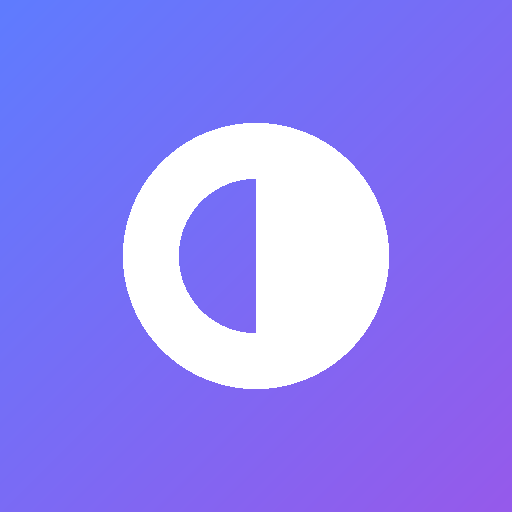
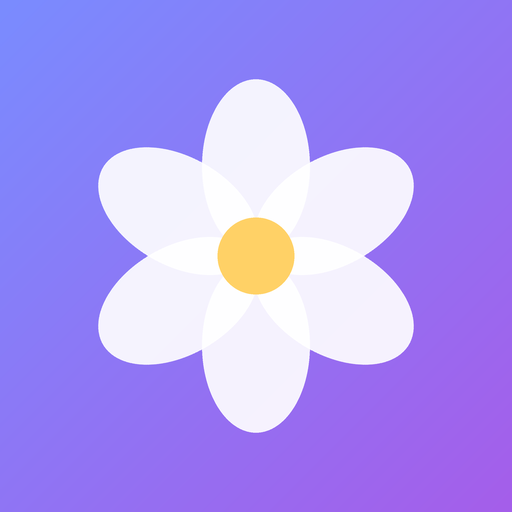
Add files via upload

diff --git a/js/app.js b/js/app.js
@@ -46,8 +46,8 @@ function sample() {
   ];
 }
 function load() {
-  try { const x = JSON.parse(localStorage.getItem(KEY)); if (x && x.tasks) { x.settings = Object.assign({ theme: 'system', accent: '#5f7cff', h24: false, mon: true }, x.settings); x.focus = x.focus || {}; x.fired = x.fired || {}; return x; } } catch (e) {}
-  return { tasks: sample(), settings: { theme: 'system', accent: '#5f7cff', h24: false, mon: true }, focus: {}, fired: {} };
+  try { const x = JSON.parse(localStorage.getItem(KEY)); if (x && x.tasks) { x.settings = Object.assign({ theme: 'system', accent: '#5f7cff', h24: false, mon: true }, x.settings); x.focus = x.focus || {}; x.fired = x.fired || {}; x.templates = x.templates || []; return x; } } catch (e) {}
+  return { tasks: sample(), settings: { theme: 'system', accent: '#5f7cff', h24: false, mon: true }, templates: [], focus: {}, fired: {} };
 }
 let S = load();
 let nativeT;
@@ -144,6 +144,7 @@ function renderDrawer() {
       <div class="set-row"><span>Accent</span><div class="swatches">${COLORS.map(c => `<button class="swatch ${s.accent === c ? 'on' : ''}" style="background:${c}" data-act="accent" data-c="${c}" aria-label="Accent ${c}"></button>`).join('')}</div></div>
       <label class="set-row"><span>24-hour clock</span><input type="checkbox" data-set="h24" ${s.h24 ? 'checked' : ''}></label>
       <label class="set-row"><span>Week starts Monday</span><input type="checkbox" data-set="mon" ${s.mon ? 'checked' : ''}></label>
+      <p class="hint">Last backup: ${s.lastBackup || S.lastBackup ? esc(longDate(S.lastBackup)) : 'never — tap Export to save one'}</p>
       <div class="btn-row">
         <button data-act="notif">🔔 Notifications</button>
         ${LN() ? '' : '<button data-act="install">📲 Install app</button>'}
@@ -187,12 +188,14 @@ function renderStrip() {
 
 function blockHTML(i, lane, lanes, n) {
   const t = i.t, start = toMin(t.time), dur = t.dur || 30;
-  const subs = t.subtasks.length ? ` · ${t.subtasks.filter(s => s.done).length}/${t.subtasks.length}` : '';
+  const sn = t.subtasks.length, sd = t.subtasks.filter(s => s.done).length;
+  const subs = sn ? ` · ☑ ${sd}/${sn}` : '';
+  const note = t.notes && t.notes.trim() ? ' · 📝' : '';
   const w = 100 / lanes;
   const hpx = Math.max(dur * PPM, 34) - 2;
   return `<div class="blk ${i.done ? 'done' : ''} ${hpx < 56 ? 'short' : ''}" data-id="${t.id}" style="--i:${n};--c:${t.color};top:${start * PPM}px;height:${hpx}px;left:calc(${lane * w}% + 6px);width:calc(${w}% - 12px)">
     <button class="chk ${i.done ? 'done' : ''}" data-act="toggle" data-id="${t.id}" data-day="${i.day}" aria-label="Complete"></button>
-    <div class="bt"><b>${esc(t.icon)} ${esc(t.title)}</b><small>${fmt(t.time)} – ${fmt(fromMin(start + dur))} · ${fmtDur(dur)}${subs}${t.repeat !== 'none' ? ' · 🔁' : ''}</small></div>
+    <div class="bt"><b>${esc(t.icon)} ${esc(t.title)}</b><small>${fmt(t.time)} – ${fmt(fromMin(start + dur))} · ${fmtDur(dur)}${subs}${note}${t.repeat !== 'none' ? ' · 🔁' : ''}</small>${sn ? `<i class="sp" style="--v:${sd / sn * 100}%"></i>` : ''}</div>
     <div class="grip" aria-label="Drag to move">⠿</div><div class="rs"></div></div>`;
 }
 function layout(timed) {
@@ -216,7 +219,7 @@ function renderDay() {
     h += `<div class="tray"><h4>Anytime</h4>${untimed.map((i, k) => `
       <div class="row ${i.done ? 'done' : ''}" style="--i:${k};--c:${i.t.color}" data-act="edit" data-id="${i.t.id}">
         <button class="chk ${i.done ? 'done' : ''}" data-act="toggle" data-id="${i.t.id}" data-day="${i.day}"></button>
-        <span class="ic">${esc(i.t.icon)}</span><span class="t">${esc(i.t.title)}</span></div>`).join('')}</div>`;
+        <span class="ic">${esc(i.t.icon)}</span><span class="t">${esc(i.t.title)}${i.t.subtasks.length ? `<em class="meta">☑ ${i.t.subtasks.filter(x => x.done).length}/${i.t.subtasks.length}</em>` : ''}${i.t.notes && i.t.notes.trim() ? '<em class="meta">📝</em>' : ''}</span></div>`).join('')}</div>`;
   }
   let hours = '';
   for (let hr = 0; hr < 24; hr++) hours += `<div class="hr" style="top:${hr * PPH}px"><span>${fmtHour(hr)}</span></div>`;
@@ -290,6 +293,7 @@ function openEditor(id, pre) {
   const card = $('#modalCard');
   card.innerHTML = `
     <div class="grab"></div><h2>${isNew ? 'New task' : 'Edit task'}</h2>
+    ${isNew && S.templates.length ? `<div class="field"><label>Templates</label><div class="tpls">${S.templates.map(tp => `<span class="tpl"><button data-tpl="${tp.id}">${esc(tp.icon)} ${esc(tp.name)}</button><button class="x" data-tpldel="${tp.id}" aria-label="Delete template">✕</button></span>`).join('')}</div></div>` : ''}
     <div class="field"><label>Title</label><input id="eTitle" value="${esc(t.title)}" placeholder="What do you want to do?"></div>
     <div class="field"><label>Icon</label><div class="opts" id="eIcons">${ICONS.map(i => `<button data-v="${i}" class="${t.icon === i ? 'on' : ''}">${i}</button>`).join('')}</div></div>
     <div class="field"><label>Color</label><div class="opts" id="eColors">${COLORS.map(c => `<button class="col ${t.color === c ? 'on' : ''}" data-v="${c}" style="background:${c}"></button>`).join('')}</div></div>
@@ -304,6 +308,7 @@ function openEditor(id, pre) {
     <div class="field"><label>Notes</label><textarea id="eNotes" rows="3">${esc(t.notes)}</textarea></div>
     <div class="foot">
       ${isNew ? '' : '<button class="danger" id="eDel">Delete</button><button id="eDup">Duplicate</button><button id="eFocus">⏱ Focus</button>'}
+      <button id="eTpl">★ Template</button>
       <button id="eCancel">Cancel</button><button class="primary" id="eSave">Save</button>
     </div>`;
   const drawSubs = () => {
@@ -312,6 +317,15 @@ function openEditor(id, pre) {
   drawSubs();
   card.onclick = e => {
     const b = e.target.closest('button'); if (!b) return;
+    if (b.dataset.tpl) {
+      const tp = S.templates.find(x => x.id === b.dataset.tpl); if (!tp) return;
+      openEditor(null, { title: tp.title, icon: tp.icon, color: tp.color, time: tp.time, dur: tp.dur, notes: tp.notes, repeat: tp.repeat, remind: tp.remind, date: $('#eDate', card).value || null, subtasks: tp.subtasks.map(x => ({ id: uid(), t: x.t, done: false })) });
+      buzz(8); return;
+    }
+    if (b.dataset.tpldel) {
+      if (confirm('Delete this template?')) { S.templates = S.templates.filter(x => x.id !== b.dataset.tpldel); save(); openEditor(null, { date: $('#eDate', card).value || null }); }
+      return;
+    }
     if (b.parentElement.id === 'eIcons') { t.icon = b.dataset.v; $$('#eIcons button', card).forEach(x => x.classList.toggle('on', x === b)); }
     else if (b.parentElement.id === 'eColors') { t.color = b.dataset.v; $$('#eColors button', card).forEach(x => x.classList.toggle('on', x === b)); }
     else if (b.dataset.x !== undefined) { subs.splice(+b.dataset.x, 1); drawSubs(); }
@@ -324,6 +338,13 @@ function openEditor(id, pre) {
     if (e.key === 'Enter' && e.target.value.trim()) { e.preventDefault(); subs.push({ id: uid(), t: e.target.value.trim(), done: false }); e.target.value = ''; drawSubs(); }
   };
   $('#eCancel', card).onclick = closeModal;
+  $('#eTpl', card).onclick = () => {
+    const title = $('#eTitle', card).value.trim();
+    if (!title) { $('#eTitle', card).focus(); toast('Give the task a title first'); return; }
+    const tp = { id: uid(), name: title, title, icon: t.icon, color: t.color, time: $('#eTime', card).value || null, dur: Math.max(5, parseInt($('#eDur', card).value) || 30), notes: $('#eNotes', card).value, repeat: $('#eRepeat', card).value, remind: $('#eRemind', card).value === '' ? null : +$('#eRemind', card).value, subtasks: subs.filter(x => x.t.trim()).map(x => ({ id: uid(), t: x.t, done: false })) };
+    S.templates = S.templates.filter(x => x.name.toLowerCase() !== title.toLowerCase()).concat(tp);
+    save(); buzz(12); toast('Saved as a template ★ — find it under New task');
+  };
   $('#eSave', card).onclick = () => {
     const title = $('#eTitle', card).value.trim();
     if (!title) { $('#eTitle', card).focus(); return; }
@@ -444,12 +465,9 @@ document.addEventListener('click', e => {
       if (!('Notification' in window)) { toast('Notifications are not supported in this browser (in-app reminders still work)'); break; }
       Notification.requestPermission().then(p => toast(p === 'granted' ? 'Notifications enabled ✅' : 'Permission not granted — in-app reminders will still appear'));
       break;
-    case 'export': {
-      const blob = new Blob([JSON.stringify(S, null, 2)], { type: 'application/json' });
-      const a = document.createElement('a'); a.href = URL.createObjectURL(blob); a.download = `daybloom-backup-${todayStr()}.json`; a.click(); URL.revokeObjectURL(a.href); break;
-    }
+    case 'export': exportBackup(); break;
     case 'import': $('#importFile').click(); break;
-    case 'reset': if (confirm('Reset everything to the sample data? This deletes all your tasks.')) { S = { tasks: sample(), settings: S.settings, focus: {}, fired: {} }; save(); render(); } break;
+    case 'reset': if (confirm('Reset everything to the sample data? This deletes all your tasks.')) { S = { tasks: sample(), settings: S.settings, templates: S.templates || [], lastBackup: S.lastBackup, focus: {}, fired: {} }; save(); render(); } break;
   }
 });
 document.addEventListener('change', e => {
@@ -459,7 +477,7 @@ document.addEventListener('change', e => {
 $('#importFile').onchange = e => {
   const f = e.target.files[0]; if (!f) return;
   const r = new FileReader();
-  r.onload = () => { try { const x = JSON.parse(r.result); if (!Array.isArray(x.tasks)) throw 0; S = Object.assign({ settings: S.settings, focus: {}, fired: {} }, x); save(); render(); toast('Backup imported'); } catch (err) { toast('Invalid backup file'); } };
+  r.onload = () => { try { const x = JSON.parse(r.result); if (!Array.isArray(x.tasks)) throw 0; S = Object.assign({ settings: S.settings, focus: {}, fired: {}, templates: [] }, x); S.templates = S.templates || []; S.focus = S.focus || {}; S.fired = S.fired || {}; save(); render(); toast('Backup imported'); } catch (err) { toast('Invalid backup file'); } };
   r.readAsText(f); e.target.value = '';
 };
 const canDismiss = el => Date.now() - (el._at || 0) > 500; // ignore the ghost mouse event that follows a tap
@@ -528,9 +546,29 @@ viewEl.addEventListener('pointerdown', e => {
 window.matchMedia('(prefers-color-scheme: dark)').addEventListener('change', () => { if (S.settings.theme === 'system') applyTheme(); });
 
 /* ---------- native Android reminders (Capacitor Local Notifications) ---------- */
-function LN() {
+function plug(name) {
   const c = window.Capacitor;
-  return (c && c.isNativePlatform && c.isNativePlatform() && c.Plugins && c.Plugins.LocalNotifications) || null;
+  return (c && c.isNativePlatform && c.isNativePlatform() && c.Plugins && c.Plugins[name]) || null;
+}
+const LN = () => plug('LocalNotifications');
+
+/* backup: share sheet in the APK (save to Drive, WhatsApp, email...), file download in a browser */
+async function exportBackup() {
+  const json = JSON.stringify(S, null, 2), name = `daybloom-backup-${todayStr()}.json`;
+  const fsP = plug('Filesystem'), shP = plug('Share');
+  try {
+    if (fsP && shP) {
+      const r = await fsP.writeFile({ path: name, data: json, directory: 'CACHE', encoding: 'utf8' });
+      await shP.share({ title: 'Daybloom backup', text: 'Daybloom backup ' + todayStr(), files: [r.uri], dialogTitle: 'Save your backup to Drive or send it to yourself' });
+    } else {
+      const blob = new Blob([json], { type: 'application/json' });
+      const a = document.createElement('a'); a.href = URL.createObjectURL(blob); a.download = name; a.click(); URL.revokeObjectURL(a.href);
+    }
+    S.lastBackup = todayStr(); save(); if (drawerMode === 'settings') renderDrawer();
+    toast('Backup ready ✅');
+  } catch (e) {
+    if (!/cancel/i.test(String((e && e.message) || e))) toast('Backup failed. Try again.');
+  }
 }
 function hashId(str) { let h = 7; for (let i = 0; i < str.length; i++) h = (h * 31 + str.charCodeAt(i)) | 0; return Math.abs(h) % 2147483000 + 1; }
 const CHANNEL = { id: 'reminders', name: 'Task reminders', description: 'Reminders before your tasks start', importance: 4, visibility: 1, vibration: true };
@@ -602,6 +640,19 @@ window.addEventListener('beforeinstallprompt', e => { e.preventDefault(); deferr
 render();
 tick();
 if (LN()) { LN().createChannel(CHANNEL).catch(() => {}); scheduleNative(); }
+
+/* Android back button: close the top sheet, then go back to Day, then to Today, then exit */
+const AppP = plug('App');
+if (AppP && AppP.addListener) {
+  AppP.addListener('backButton', () => {
+    if ($('#focus').classList.contains('open')) { $('#fClose').click(); return; }
+    if ($('#modal').classList.contains('open')) { closeModal(); return; }
+    if ($('#drawer').classList.contains('open')) { closeDrawer(); return; }
+    if (view !== 'day') { view = 'day'; navDir = 0; animate = true; needScroll = true; render(); return; }
+    if (cur !== todayStr()) { navDir = todayStr() > cur ? 1 : -1; cur = todayStr(); monthCur = cur.slice(0, 8) + '01'; needScroll = true; animate = true; render(); return; }
+    if (AppP.exitApp) AppP.exitApp(); else if (AppP.minimizeApp) AppP.minimizeApp();
+  });
+}
 
 /* PWA: offline support + installable on Android (needs https or localhost) */
 if ('serviceWorker' in navigator && (location.protocol === 'https:' || location.hostname === 'localhost')) {

diff --git a/scripts/android-setup.js b/scripts/android-setup.js
@@ -1,0 +1,45 @@
+// Builds the native Android project: copies the web app, adds Android, then applies
+// permissions and the app/notification icons. Run by the GitHub workflow.
+const { execSync } = require('child_process');
+const fs = require('fs');
+const path = require('path');
+const root = path.join(__dirname, '..');
+
+const PERMISSIONS = [
+  'android.permission.POST_NOTIFICATIONS',
+  'android.permission.SCHEDULE_EXACT_ALARM',
+  'android.permission.RECEIVE_BOOT_COMPLETED',
+  'android.permission.VIBRATE',
+  'android.permission.WAKE_LOCK'
+];
+
+function patchManifest(file) {
+  let s = fs.readFileSync(file, 'utf8');
+  const add = PERMISSIONS.filter(p => !s.includes(`"${p}"`)).map(p => `    <uses-permission android:name="${p}"/>`).join('\n');
+  if (add) s = s.replace('</manifest>', add + '\n</manifest>');
+  fs.writeFileSync(file, s);
+  return add ? add.split('\n').length : 0;
+}
+
+function applyIcons(resDir, assetsDir) {
+  // Remove the default adaptive icon so the PNG launcher icons below are used
+  for (const f of ['mipmap-anydpi-v26/ic_launcher.xml', 'mipmap-anydpi-v26/ic_launcher_round.xml']) {
+    fs.rmSync(path.join(resDir, f), { force: true });
+  }
+  for (const d of fs.readdirSync(resDir)) {
+    if (d.startsWith('mipmap-')) fs.rmSync(path.join(resDir, d, 'ic_launcher_foreground.png'), { force: true });
+  }
+  fs.cpSync(assetsDir, resDir, { recursive: true });
+}
+
+module.exports = { patchManifest, applyIcons };
+
+if (require.main === module) {
+  const run = c => { console.log('> ' + c); execSync(c, { stdio: 'inherit', cwd: root }); };
+  run('node scripts/prepare-www.js');
+  run('npx cap add android');
+  const res = path.join(root, 'android/app/src/main/res');
+  console.log('permissions added:', patchManifest(path.join(root, 'android/app/src/main/AndroidManifest.xml')));
+  applyIcons(res, path.join(root, 'android-res'));
+  run('npx cap sync android');
+}

diff --git a/css/styles.css b/css/styles.css
@@ -227,3 +227,15 @@ h1{margin:0;font-size:30px;letter-spacing:-.03em;font-weight:800}
 
 /* keep Save / Cancel reachable in long sheets */
 .foot{position:sticky;bottom:calc(-24px - var(--sb));background:linear-gradient(to top,var(--panel) 75%,transparent);padding:14px 0 calc(14px + var(--sb));margin-bottom:calc(-24px - var(--sb))}
+
+/* subtask progress, notes marker, templates */
+.sp{display:block;height:4px;border-radius:2px;background:color-mix(in srgb,var(--c) 22%,transparent);margin-top:5px;position:relative;overflow:hidden}
+.sp::after{content:"";position:absolute;left:0;top:0;bottom:0;width:var(--v);background:var(--c);border-radius:2px;transition:width .5s var(--ease)}
+.blk.short .sp{display:none}
+.meta{font-style:normal;font-size:11px;font-weight:700;color:var(--muted);margin-left:8px}
+.tpls{display:flex;flex-wrap:wrap;gap:8px}
+.tpl{display:inline-flex;align-items:center;background:var(--bg);border-radius:12px;border:1.5px solid var(--line)}
+.tpl button{padding:8px 4px 8px 12px;font-weight:600;font-size:14px}
+.tpl button.x{padding:8px 10px 8px 4px;color:var(--muted);width:auto}
+.sub input[type=checkbox]:checked + input[type=text]{text-decoration:line-through;color:var(--muted)}
+.sub input[type=checkbox]{accent-color:var(--accent);width:22px!important;height:22px;flex:none}

diff --git a/sw.js b/sw.js
@@ -1,5 +1,5 @@
 // Cache-first service worker so the planner works offline.
-const CACHE = 'daybloom-v2';
+const CACHE = 'daybloom-v3';
 const ASSETS = ['./', 'index.html', 'css/styles.css', 'js/app.js', 'manifest.json', 'icons/icon-192.png', 'icons/icon-512.png'];
 self.addEventListener('install', e => { e.waitUntil(caches.open(CACHE).then(c => c.addAll(ASSETS)).then(() => self.skipWaiting())); });
 self.addEventListener('activate', e => {

diff --git a/index.html b/index.html
@@ -57,7 +57,7 @@
   </div>
 </div>
 
-<input type="file" id="importFile" accept="application/json" hidden>
+<input type="file" id="importFile" accept="application/json,.json,text/plain" hidden>
 <div id="toast"></div>
 <script src="js/app.js"></script>
 </body>

diff --git a/BUILD_APK.md b/BUILD_APK.md
@@ -18,6 +18,21 @@ If the build fails, open the failed step in Actions and share the red error text
 2. Go to pwabuilder.com, paste your site link, and choose **Package for stores > Android**.
 3. Download the package and install the APK it contains.
 
+## Updating an app you already built (v1.1 and later)
+
+1. Open your GitHub repo, click **Add file > Upload files**, and drag in everything from the new `daybloom` folder (contents, not the folder). GitHub replaces files with the same name. This adds the new `android-res` and `scripts` folders.
+2. The build recipe changed, so open `.github/workflows/build-apk.yml` in the repo, click the pencil icon, replace all of its text with the same file from this folder, and click **Commit changes**.
+3. Open **Actions**, wait for the new build (or click **Run workflow**), and download `daybloom-apk` again.
+4. Install the new APK over the old one. Your tasks are kept, because it is the same app.
+
+## What's new in v1.1
+
+- Android back button: closes the open sheet first, then returns to Day, then to Today, then exits.
+- New flower app icon and notification icon.
+- Export now opens the Android share sheet, so you can save the backup to Google Drive, WhatsApp or email. Import reads it back. Settings shows the date of your last backup.
+- Task templates: in the task form tap **Template** to save the current task, and tap a template chip in a new task to reuse it.
+- Subtask progress bar and a notes marker on timeline tasks.
+
 ## Good to know
 
 - This is a debug-signed APK. It is fine for installing on your own phone but not for uploading to the Play Store.

diff --git a/README.md b/README.md
@@ -50,6 +50,10 @@ On phones: tap a task to edit, drag the ⠿ grip to move it, drag the bottom edg
 
 See `BUILD_APK.md`. A ready GitHub Actions workflow builds an installable `.apk` for free, with real background reminder notifications.
 
+## Backup, templates and back button
+
+See the "What's new in v1.1" section of `BUILD_APK.md`.
+
 ## Notes
 
 - Opened on a computer, the app shows in a phone-width column, so it also previews fine in VS Code.
